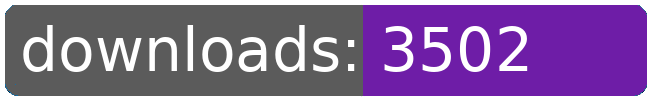
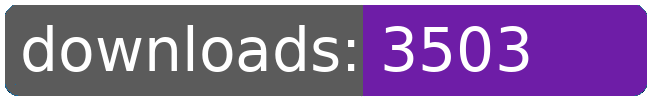
dl log written

Changed region(s): [[0.7692, 0.42, 0.8308, 0.72], [0.7692, 0.27, 0.8, 0.36], [0.8, 0.36, 0.8308, 0.39]]

diff --git a/README.md b/README.md
@@ -21,8 +21,8 @@
 		<td>3435</td>
 		<td>3457</td>
 		<td>3480</td>
-		<td>3502</td>
-		<td>+ 22</td>
+		<td>3503</td>
+		<td>+ 23</td>
 	</tr>
 	<tr>
 		<td>aberrant.kahet.outfitter</td>
@@ -274,8 +274,8 @@
 		<td></td>
 		<td></td>
 		<td></td>
-		<td>50507</td>
-		<td>422</td>
+		<td>50508</td>
+		<td>423</td>
 	</tr>
 </table>
 </sub></sup>
@@ -322,8 +322,8 @@
 		<td>3435</td>
 		<td>3457</td>
 		<td>3480</td>
-		<td>3502</td>
-		<td>+ 22</td>
+		<td>3503</td>
+		<td>+ 23</td>
 	</tr>
 	<tr>
 		<td>capture.archons</td>
@@ -553,8 +553,8 @@
 		<td></td>
 		<td></td>
 		<td></td>
-		<td>50507</td>
-		<td>422</td>
+		<td>50508</td>
+		<td>423</td>
 	</tr>
 </table>
 </sub></sup>
